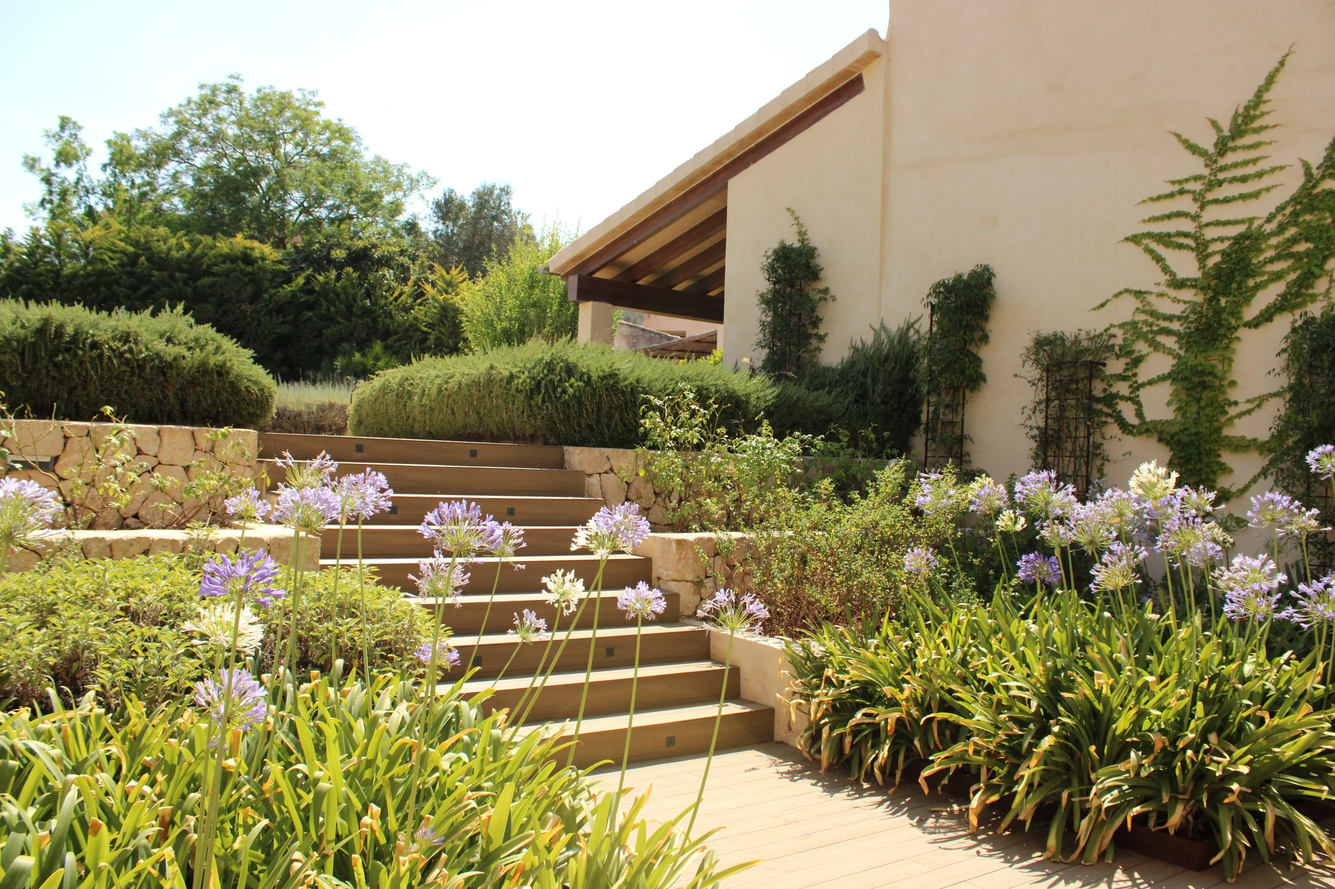
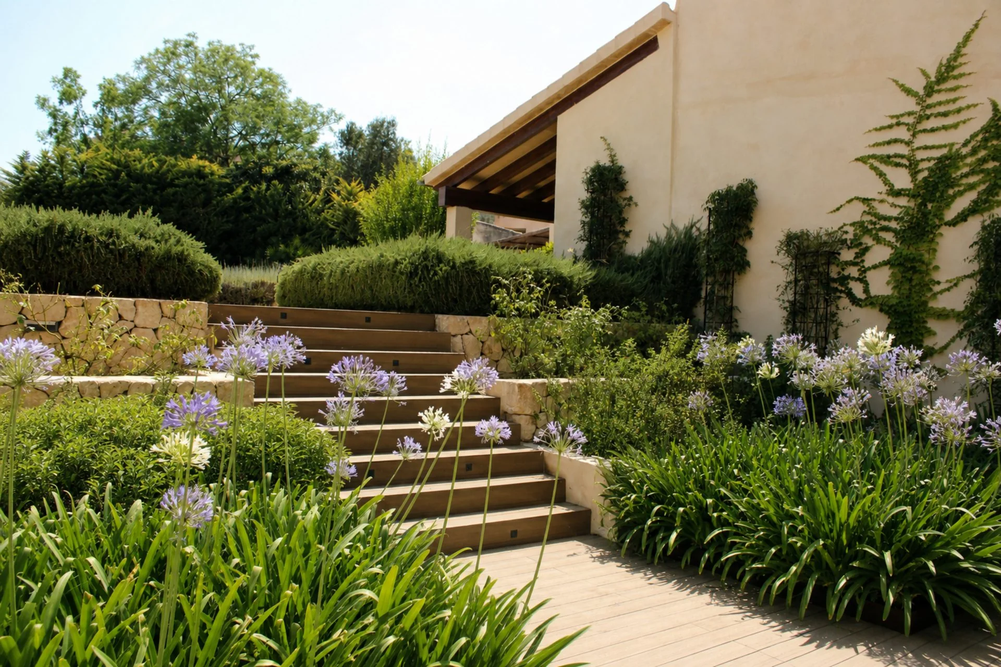
fix(portfolio): update Santa Eugenia with edited vibrant photos and purge unedited assets

diff --git a/public/presentacion-proyectos.html b/public/presentacion-proyectos.html
@@ -2408,13 +2408,13 @@
 
       <!-- Quick Filter Project Pills -->
       <div class="search-pills-row" id="searchPillsRow">
-        <button type="button" class="pres-pill active" data-filter="all">Todos (78)</button>
+        <button type="button" class="pres-pill active" data-filter="all">Todos (75)</button>
         <button type="button" class="pres-pill" data-filter="Son Vida">Son Vida (6)</button>
         <button type="button" class="pres-pill" data-filter="Santa Ponsa">Santa Ponsa (3)</button>
         <button type="button" class="pres-pill" data-filter="Sant Llorenç">Sant Llorenç (6)</button>
         <button type="button" class="pres-pill" data-filter="Binissalem">Binissalem (12)</button>
         <button type="button" class="pres-pill" data-filter="Llubí">Llubí (6)</button>
-        <button type="button" class="pres-pill" data-filter="Santa Eugènia">Santa Eugènia (6)</button>
+        <button type="button" class="pres-pill" data-filter="Santa Eugènia">Santa Eugènia (3)</button>
         <button type="button" class="pres-pill" data-filter="Palma">Palma (3)</button>
         <button type="button" class="pres-pill" data-filter="Andratx">Andratx (6)</button>
         <button type="button" class="pres-pill" data-filter="Bunyola">Bunyola (3)</button>
@@ -2424,7 +2424,7 @@
       </div>
 
       <div class="search-status-bar">
-        <span id="presSearchCount">78 fotos</span>
+        <span id="presSearchCount">75 fotos</span>
         <button type="button" id="presSearchClose" class="search-close-link">Cerrar buscador [Esc]</button>
       </div>
     </div>
@@ -2486,7 +2486,7 @@
             <div class="project-dropdown-popover" id="projectDropdownPopover">
               <button type="button" class="dropdown-opt-btn active" data-filter="all">
                 <span>Todos los proyectos</span>
-                <span class="dropdown-opt-count">78</span>
+                <span class="dropdown-opt-count">75</span>
               </button>
               <button type="button" class="dropdown-opt-btn" data-filter="Andratx">
                 <span>Andratx</span>
@@ -2530,7 +2530,7 @@
               </button>
               <button type="button" class="dropdown-opt-btn" data-filter="Santa Eugènia">
                 <span>Santa Eugènia</span>
-                <span class="dropdown-opt-count">6</span>
+                <span class="dropdown-opt-count">3</span>
               </button>
               <button type="button" class="dropdown-opt-btn" data-filter="Santa Ponsa">
                 <span>Santa Ponsa</span>
@@ -2553,7 +2553,7 @@
           <button type="button" class="pills-arrow-btn" id="btnPillsPrev" aria-label="Desplazar proyectos a la izquierda">&#8249;</button>
           <div class="pills-track-mask" id="pillsTrackMask">
             <div class="index-filter-pills-row" id="indexFilterPills">
-              <button type="button" class="idx-pill active" data-filter="all">Todos (78)</button>
+              <button type="button" class="idx-pill active" data-filter="all">Todos (75)</button>
               <button type="button" class="idx-pill" data-filter="Andratx">Andratx (6)</button>
               <button type="button" class="idx-pill" data-filter="Binissalem">Binissalem (12)</button>
               <button type="button" class="idx-pill" data-filter="Bunyola">Bunyola (3)</button>
@@ -2564,7 +2564,7 @@
               <button type="button" class="idx-pill" data-filter="Marratxí">Marratxí (3)</button>
               <button type="button" class="idx-pill" data-filter="Palma">Palma (3)</button>
               <button type="button" class="idx-pill" data-filter="Portals Nous">Portals Nous (3)</button>
-              <button type="button" class="idx-pill" data-filter="Santa Eugènia">Santa Eugènia (6)</button>
+              <button type="button" class="idx-pill" data-filter="Santa Eugènia">Santa Eugènia (3)</button>
               <button type="button" class="idx-pill" data-filter="Santa Ponsa">Santa Ponsa (3)</button>
               <button type="button" class="idx-pill" data-filter="Sant Llorenç">Sant Llorenç (6)</button>
               <button type="button" class="idx-pill" data-filter="Son Vida">Son Vida (6)</button>
@@ -2739,13 +2739,10 @@
       { title: "Finca Jardín Campos", path: "/portfolio/finca-garden-campos-mallorca/images/finca-garden-campos-sestepa-design-landscaper-mallorca-01-master.webp", url: "/finca-garden-campos/" },
       { title: "Finca Jardín Campos", path: "/portfolio/finca-garden-campos-mallorca/images/finca-garden-campos-sestepa-design-landscaper-mallorca-38.jpg", url: "/finca-garden-campos/" },
 
-      // 13. Santa Eugènia (6 photos)
+      // 13. Santa Eugènia (3 photos)
       { title: "Santa Eugènia", path: "/portfolio/terrace-garden-santa-eugenia/images/garden-design-mallorca-santa-eugenia-sestepa-01.webp", url: "/terrace-garden-santa-eugenia/" },
       { title: "Santa Eugènia", path: "/portfolio/terrace-garden-santa-eugenia/images/garden-design-mallorca-santa-eugenia-sestepa-02.webp", url: "/terrace-garden-santa-eugenia/" },
       { title: "Santa Eugènia", path: "/portfolio/terrace-garden-santa-eugenia/images/garden-design-mallorca-santa-eugenia-sestepa-03.webp", url: "/terrace-garden-santa-eugenia/" },
-      { title: "Santa Eugènia", path: "/portfolio/terrace-garden-santa-eugenia/images/garden-design-mallorca-santa-eugenia-sestepa-04.webp", url: "/terrace-garden-santa-eugenia/" },
-      { title: "Santa Eugènia", path: "/portfolio/terrace-garden-santa-eugenia/images/garden-design-mallorca-santa-eugenia-sestepa-05.webp", url: "/terrace-garden-santa-eugenia/" },
-      { title: "Santa Eugènia", path: "/portfolio/terrace-garden-santa-eugenia/images/garden-design-mallorca-santa-eugenia-sestepa-06.webp", url: "/terrace-garden-santa-eugenia/" },
 
       // 14. Llubí (6 photos)
       { title: "Llubí", path: "/portfolio/garden-design-llubi-mallorca/images/landscape-architecture-mallorca-llubi-sestepa-design (1).webp", url: "/garden-design-llubi-mallorca/" },

diff --git a/src/data/projects.ts b/src/data/projects.ts
@@ -1070,26 +1070,7 @@ export const projects: Project[] = [
     images: [
       "/portfolio/terrace-garden-santa-eugenia/images/garden-design-mallorca-santa-eugenia-sestepa-01.webp",
       "/portfolio/terrace-garden-santa-eugenia/images/garden-design-mallorca-santa-eugenia-sestepa-02.webp",
-      "/portfolio/terrace-garden-santa-eugenia/images/garden-design-mallorca-santa-eugenia-sestepa-03.webp",
-      "/portfolio/terrace-garden-santa-eugenia/images/garden-design-mallorca-santa-eugenia-sestepa-04.webp",
-      "/portfolio/terrace-garden-santa-eugenia/images/garden-design-mallorca-santa-eugenia-sestepa-05.webp",
-      "/portfolio/terrace-garden-santa-eugenia/images/garden-design-mallorca-santa-eugenia-sestepa-06.webp",
-      "garden design mallorca santa eugenia sestepa landscape design (1).jpg",
-      "garden design mallorca santa eugenia sestepa landscape design (3).jpg",
-      "garden design mallorca santa eugenia sestepa landscape design (2).jpg",
-      "garden design mallorca santa eugenia sestepa landscape design (4).jpg",
-      "garden design mallorca santa eugenia sestepa landscape design (6).jpg",
-      "garden design mallorca santa eugenia sestepa landscape design (7).jpg",
-      "Terrace-Garden-Santa-Eugenia-SEstepa-Design-Mallorca-10.jpg",
-      "Terrace-Garden-Santa-Eugenia-SEstepa-Design-Mallorca-12.jpg",
-      "Terrace-Garden-Santa-Eugenia-SEstepa-Design-Mallorca-2.jpg",
-      "Terrace-Garden-Santa-Eugenia-SEstepa-Design-Mallorca-4.jpg",
-      "Terrace-Garden-Santa-Eugenia-SEstepa-Design-Mallorca-5.jpg",
-      "Terrace-Garden-Santa-Eugenia-SEstepa-Design-Mallorca-6.jpg",
-      "Terrace-Garden-Santa-Eugenia-SEstepa-Design-Mallorca-7.jpg",
-      "Terrace-Garden-Santa-Eugenia-SEstepa-Design-Mallorca-8.jpg",
-      "Terrace-Garden-Santa-Eugenia-SEstepa-Design-Mallorca-9.jpg",
-      "Terrace-Garden-Santa-Eugenia-SEstepa-Design-Mallorca.jpg"
+      "/portfolio/terrace-garden-santa-eugenia/images/garden-design-mallorca-santa-eugenia-sestepa-03.webp"
     ],
     en: {
       title: "Santa Eugènia",

diff --git a/src/data/gallery-images.ts b/src/data/gallery-images.ts
@@ -318,7 +318,7 @@ export const galleryImages: GalleryImageEntry[] = [
     alt: 'FINCA GARDEN CAMPOS MALLORCA VILLA ARCHITECTURE AND MEDITERRANEAN PERENNIALS SESTEPA DESIGN',
     projectSlug: campos,
   },
-  // 6 × Santa Eugènia (terrace · pool · planting)
+  // 3 × Santa Eugènia (terrace · pool · planting)
   {
     src: '/portfolio/terrace-garden-santa-eugenia/images/garden-design-mallorca-santa-eugenia-sestepa-01.webp',
     alt: 'TERRACE GARDEN SANTA EUGÈNIA MALLORCA RESIDENTIAL VILLA SESTEPA DESIGN',
@@ -332,21 +332,6 @@ export const galleryImages: GalleryImageEntry[] = [
   {
     src: '/portfolio/terrace-garden-santa-eugenia/images/garden-design-mallorca-santa-eugenia-sestepa-03.webp',
     alt: 'TERRACE GARDEN SANTA EUGÈNIA MALLORCA POOL TERRACE AND MEDITERRANEAN PERENNIALS SESTEPA DESIGN',
-    projectSlug: santaEugenia,
-  },
-  {
-    src: '/portfolio/terrace-garden-santa-eugenia/images/garden-design-mallorca-santa-eugenia-sestepa-04.webp',
-    alt: 'TERRACE GARDEN SANTA EUGÈNIA MALLORCA SCULPTURAL SPECIES AND STONE WALLS SESTEPA DESIGN',
-    projectSlug: santaEugenia,
-  },
-  {
-    src: '/portfolio/terrace-garden-santa-eugenia/images/garden-design-mallorca-santa-eugenia-sestepa-05.webp',
-    alt: 'TERRACE GARDEN SANTA EUGÈNIA MALLORCA WOODEN STEPS AND AGAPANTHUS BORDERS SESTEPA DESIGN',
-    projectSlug: santaEugenia,
-  },
-  {
-    src: '/portfolio/terrace-garden-santa-eugenia/images/garden-design-mallorca-santa-eugenia-sestepa-06.webp',
-    alt: 'TERRACE GARDEN SANTA EUGÈNIA MALLORCA COURTYARD PERGOLA AND LUSH FOLIAGE SESTEPA DESIGN',
     projectSlug: santaEugenia,
   },
   // 6 × Llubí

diff --git a/STATUS.md b/STATUS.md
@@ -17,6 +17,48 @@
 
 ## HISTÓRICO DE SESSÕES (Ordem Cronológica Reversa)
 
+### [2026-10-28] - Antigravity (Curadoria Santa Eugènia: Substituição por Melhores Fotos e Purga de Ativos Não Editados) — Homologado
+- **Autor/agente:** Antigravity.
+- **Acesso à unidade J:** Não houve acesso a J: nesta etapa.
+- **Escopo:**
+  1. Otimização e Conversão de Imagens:
+     - Geração de 3 novos WebP otimizados em 1920x1280 (e card 700x525 4:3) para `public/portfolio/terrace-garden-santa-eugenia/images/`:
+       - `garden-design-mallorca-santa-eugenia-sestepa-01.webp` (Capa/Hero em plena floração e iluminação viva).
+       - `garden-design-mallorca-santa-eugenia-sestepa-card.webp` (Crop 4:3 para cards da galeria).
+       - `garden-design-mallorca-santa-eugenia-sestepa-02.webp` (Gramado, árvore central e esferas escultóricas).
+       - `garden-design-mallorca-santa-eugenia-sestepa-03.webp` (Escadaria frontal com agapanthus floridos).
+  2. Atualização Estruturada de Dados:
+     - `codigo/src/data/projects.ts`: mantidas exclusivamente as 3 fotos principais de Santa Eugènia, removendo as versões não tratadas / secas (04, 05, 06) e fallbacks JPG brutos.
+     - `codigo/src/data/gallery-images.ts`: reduzido o conjunto de Santa Eugènia de 6 para as 3 melhores fotos.
+     - `codigo/public/presentacion-proyectos.html`: atualizada a galeria de Santa Eugènia para 3 fotos, ajustando os contadores de "Todos (78)" para "Todos (75)" e "Santa Eugènia (6)" para "Santa Eugènia (3)" em dropdown, barra de pesquisa e pílulas.
+  3. Sitemaps e Build:
+     - `public/sitemap-images.xml` regenerado via script mestre com 284 imagens indexadas.
+     - Validação estática executada com sucesso via Astro build local isolado (`preview_local.py build`, 157 páginas geradas sem erros).
+- **Pendências:** Integrar "Foto 4" (Pedro) e Sant Llorenç (Editadas) assim que os arquivos forem confirmados em disco local.
+
+### [2026-10-28] - Antigravity (Produção de Vídeos Remotion Studio Quality — Portals Nous) — Homologado
+- **Autor/agente:** Antigravity.
+- **Acesso à unidade J:** Leitura estrita (read-only) em `J:\Meu Drive\S'ESTEPA 2026\MEDIA 2026\JARDINES\MEJORES FOTOS\1. MEJORES FOTOS PEDRO\PORTALS NOULS - SESTEPA DESIGN - ADRIA - MALLORCA - LANDSCAPE (2).jpeg`. Nenhum arquivo alterado, gravado ou excluído em J:.
+- **Escopo:**
+  1. Ingestão de Ativo Original:
+     - Foto original copiada de J: (leitura) para `originais-grandes/portals-nous/PORTALS NOULS - SESTEPA DESIGN - ADRIA - MALLORCA - LANDSCAPE (2).jpeg`.
+  2. Análise Geométrica e Orientação:
+     - Dimensões: 4000x1800 px (horizontal panorâmica ~20:9).
+     - Conforme regra estrita do protocolo: foto horizontal -> Template 3 Glide (Remotion Studio Quality).
+  3. Renderização de Vídeos (HQ):
+     - Executado via script mestre `C:\Users\inesg\remotion-projects\sestepa-remotion\render_portals_nous.py` a 30fps por 9s, formato vertical 9:16 (Stories/Reels), CRF 14, JPEG quality 100%, YUV420p, áudio mudo.
+     - Variações geradas em `videos/portals-nous/renders/`:
+       - `portals-nous-2-9x16-09s-glide-ltr-remotion-mallorca-sestepa-garden-design.mp4` (17.16 MB)
+       - `portals-nous-2-9x16-09s-glide-rtl-remotion-mallorca-sestepa-garden-design.mp4` (18.70 MB)
+  4. Homologação Final:
+     - Versão RTL aprovada pelo operador e copiada para entrega final em `videos/portals-nous/aprovados/portals-nous-2-9x16-09s-glide-rtl-remotion-mallorca-sestepa-garden-design.mp4`.
+- **Validação:**
+  - Arquivo final (18.70 MB) em estrito cumprimento da regra < 25 MB do Cloudflare/Git.
+  - Documentação atualizada em `videos/README.md`.
+- **Pendências:** Nenhuma.
+
+
+
 ### [2026-10-27] - Antigravity (Organização Alfabética dos Menus de Projetos na Apresentação) — publicado em master
 - **Autor/agente:** Antigravity.
 - **Acesso à unidade J:** Não houve acesso a J:.
